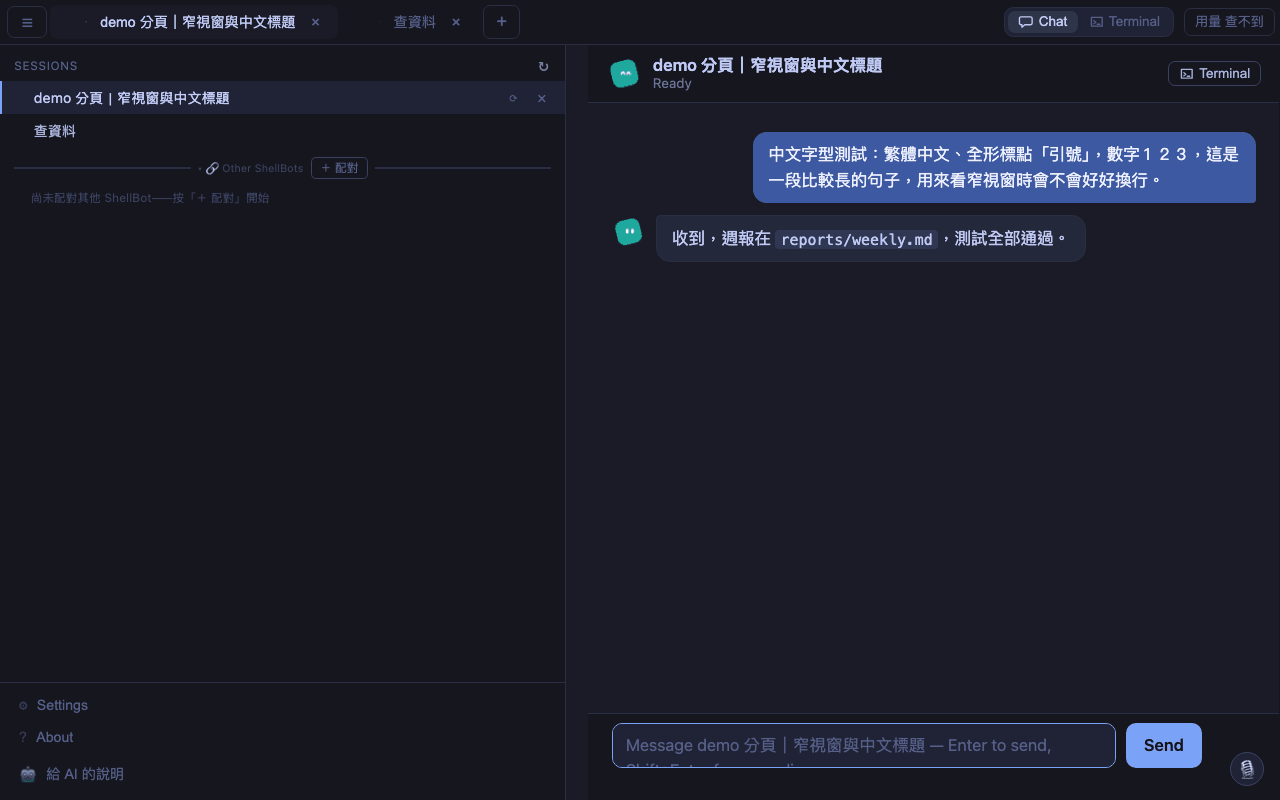
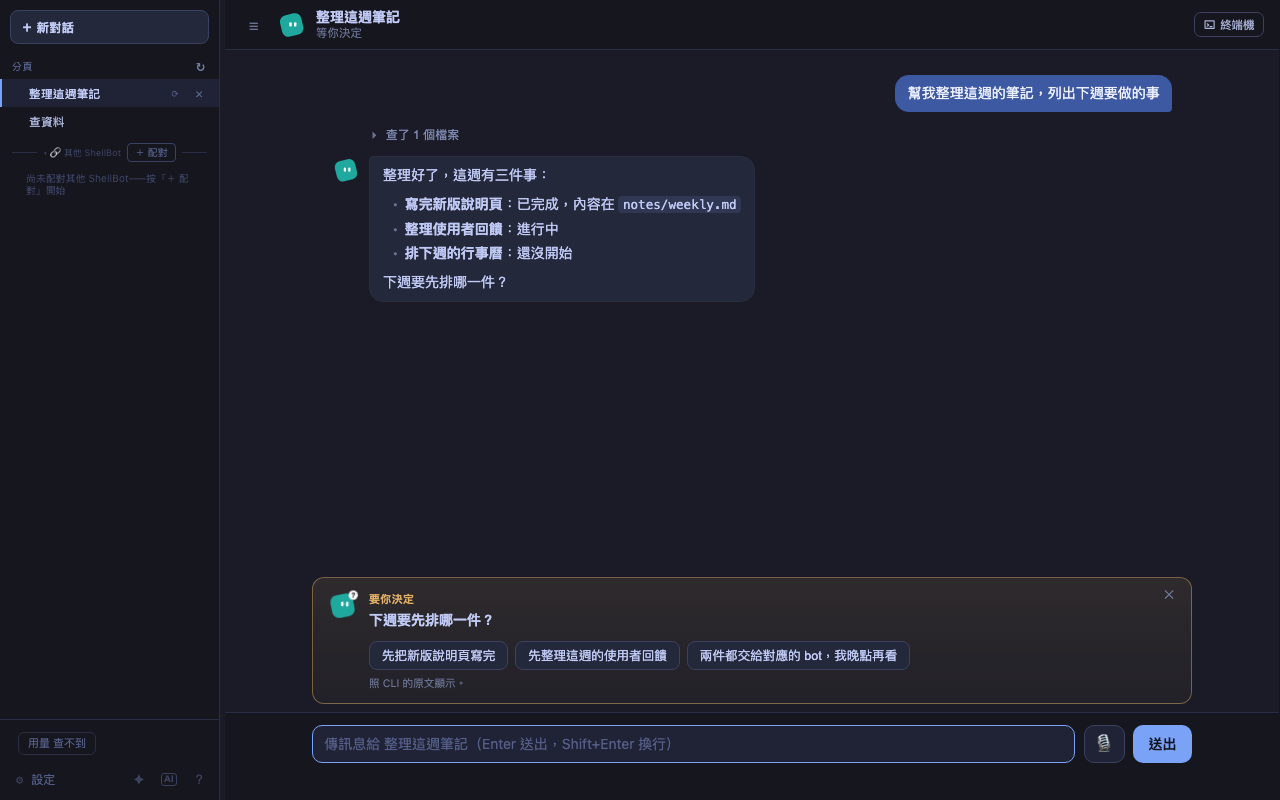
Product page: reshoot the chat view picture on v0.46.1 (one-row sidebar foot)
- docs/img/chat-view-1280.png is a new 1280x800 shot of the web files at
  v0.46.1, with a made-up conversation (a reply with a bold list, a tool
  call folded into one line, and a "needs your decision" card).
- Alt text and caption now describe what the picture shows: the Terminal
  button at the top right (the old picture showed the tab bar's pill).
- Made by promo-assets/scripts/shoot_chat_view.py (same harness as
  tests_chat_narrow.py); demo data only.

diff --git a/docs/index.html b/docs/index.html
@@ -481,8 +481,8 @@ details.tb.wide{margin-top:16px}
 
   <h3 class="sub"><span class="en">Chat view on the desktop</span><span class="zh">桌面版的對話畫面</span></h3>
   <figure class="inline-shot" style="max-width:none">
-    <img src="img/chat-view-1280.png" alt="Desktop chat view: a Chat / Terminal switch at the top right; chat bubbles in the middle with the AI's reply on the left, carrying its face; an input box and Send button below; the tab list on the left" data-zh-alt="桌面版對話畫面：右上角有「Chat／Terminal」切換鈕；中間是一來一往的聊天泡泡，AI 的回覆在左邊、帶著臉；下方是輸入框和送出鈕；左邊是分頁清單" width="1280" height="800" loading="lazy">
-    <figcaption><span class="en"><b>A tab turned into a chat</b>: the Chat / Terminal switch is at the top right, and each tab switches on its own (demo data).</span><span class="zh"><b>分頁改成聊天的樣子</b>：右上角是「對話／終端機」切換鈕，每個分頁各切各的（示範資料）。</span></figcaption>
+    <img src="img/chat-view-1280.png" alt="Desktop chat view: your message on the right; the AI's reply on the left with its face, a bold list and inline code, and a tool call folded into one line; a “needs your decision” card with three buttons above the input box; a Terminal button at the top right; the tab list on the left, with Settings and three small icons as one row at its foot" data-zh-alt="桌面版對話畫面：你的訊息在右邊；AI 的回覆在左邊、帶著臉，有粗體清單和行內程式碼，工具呼叫收成一行；輸入框上方是一張有三個按鈕的「要你決定」卡片；右上角有「終端機」鈕；左邊是分頁清單，底部是「設定」加三個小圖示的一列" width="1280" height="800" loading="lazy">
+    <figcaption><span class="en"><b>A tab turned into a chat</b>: the reply with its bold list, a tool call folded into one line, and a question that needs you as buttons. The Terminal button at the top right switches that tab back to its terminal, and each tab switches on its own (demo data).</span><span class="zh"><b>分頁改成聊天的樣子</b>：回覆有粗體清單，工具呼叫收成一行，要你決定的問題變成按鈕。右上角的「終端機」鈕把這個分頁切回終端機，每個分頁各切各的（示範資料）。</span></figcaption>
   </figure>
 
   <h3 class="sub"><span class="en">Signing in again, step by step</span><span class="zh">登入過期，一步一步重新登入</span></h3>
